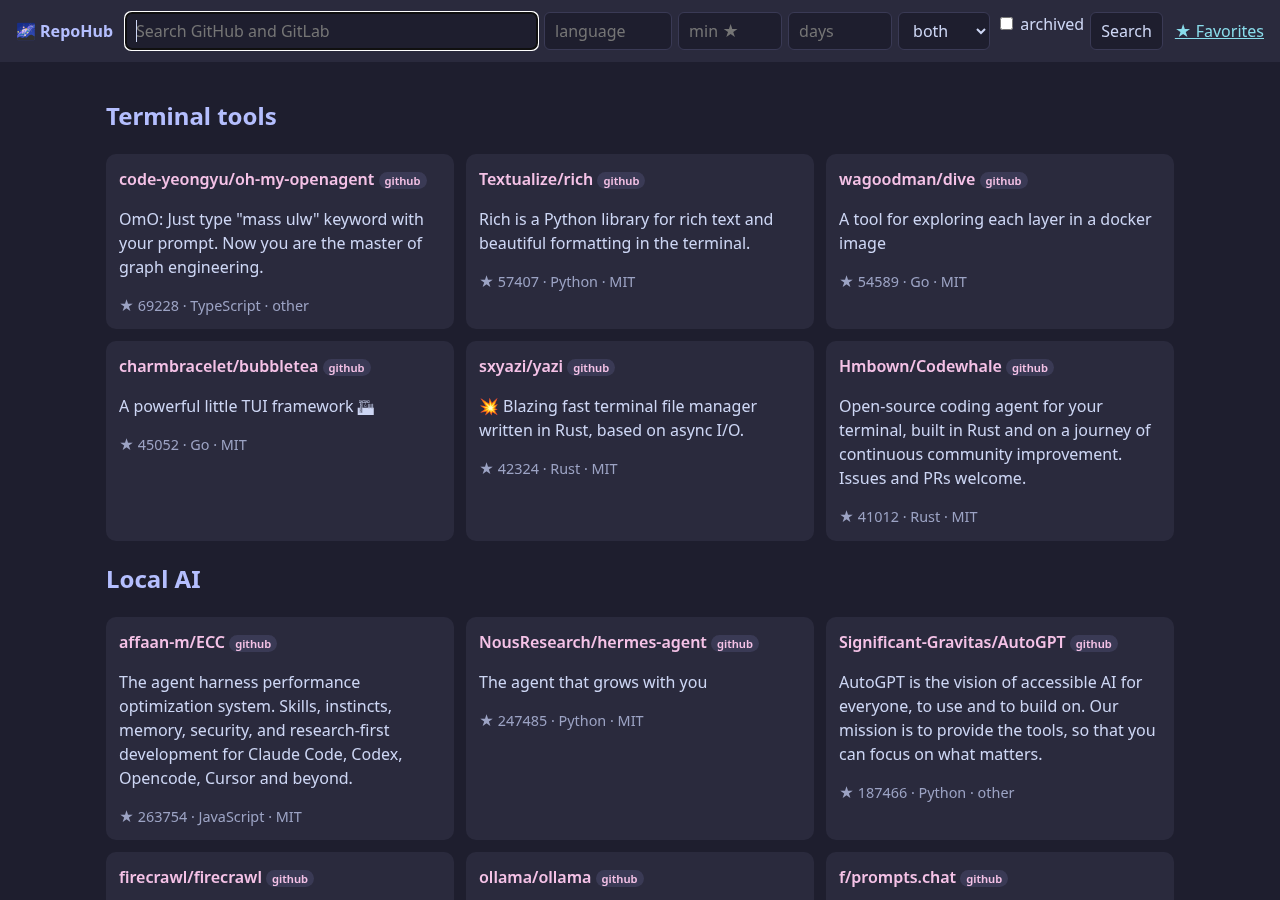
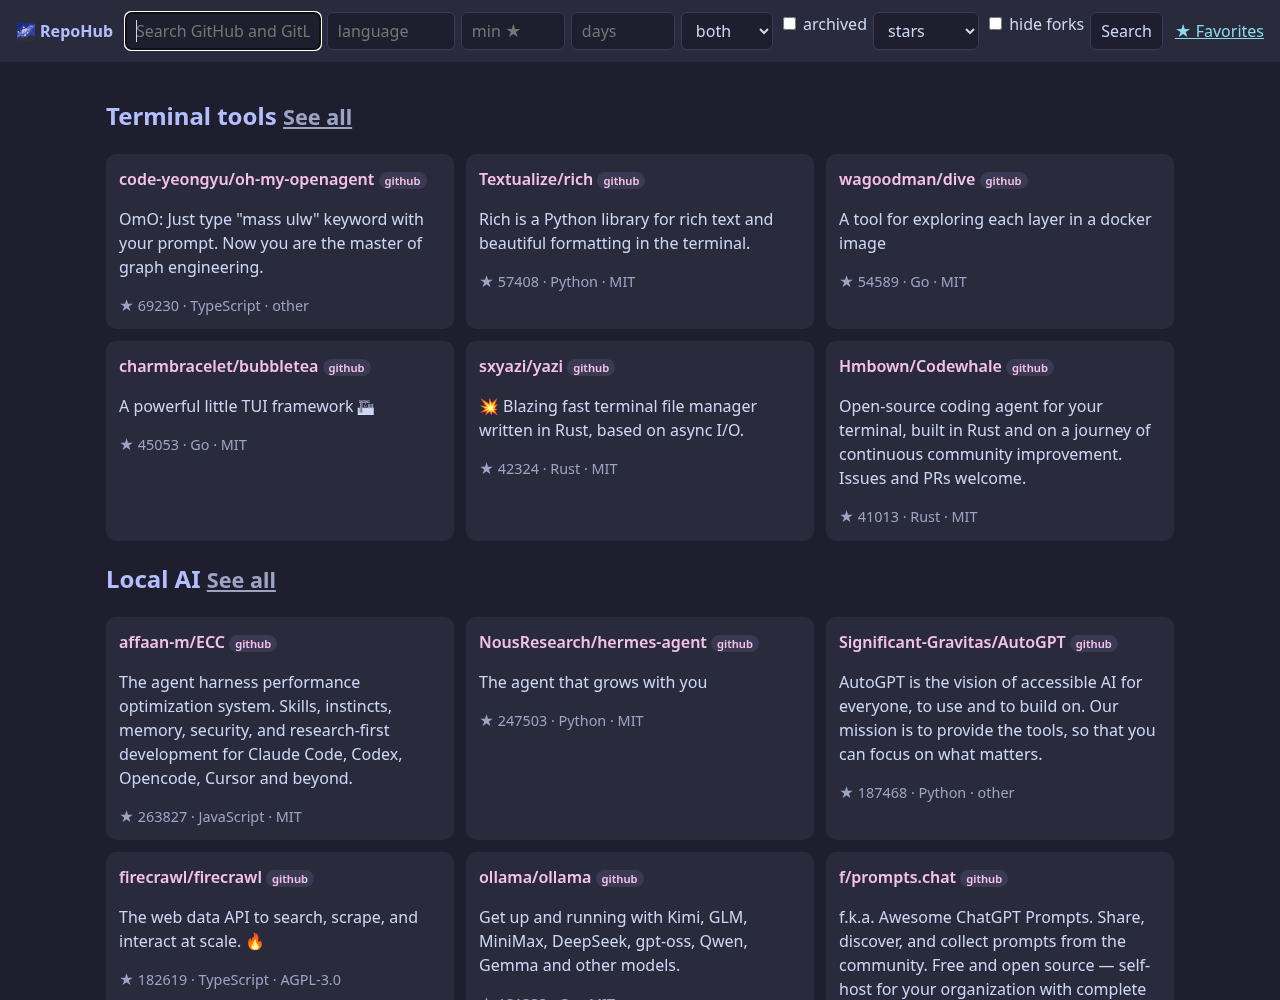
test: cover shelf index consistency, real catalog offline, old cache rows; docs

diff --git a/tests/test_phase1_consistency.py b/tests/test_phase1_consistency.py
@@ -1,0 +1,77 @@
+"""Cross-front-end consistency and offline checks that span several modules."""
+import hashlib
+import io
+import json
+import re
+from dataclasses import asdict
+
+from fastapi.testclient import TestClient
+
+import repohub.cli as cli
+from helpers import FakeProvider, make_hub, mk
+from repohub.core.browse import LoadedShelves, Shelf, ShelfEntry
+from repohub.core.hub import DETAIL_TTL, SEARCH_TTL
+from repohub.core.models import SearchFilters
+from repohub.tui.app import RepoHubApp
+from repohub.web.app import create_app
+
+
+def shelf_list():
+    cur = lambda n: Shelf(n, repos=(ShelfEntry("github", "o/r"),), as_of="2026-09-01")  # noqa: E731
+    return [Shelf("S0", topic="a"), cur("C1"), Shelf("S2", topic="b"), cur("C3"), Shelf("S4", query="q")]
+
+
+async def test_shelf_indexes_agree_in_web_tui_and_cli(tmp_path, monkeypatch):
+    shelves = shelf_list()
+    names = [s.name for s in shelves]
+    # web: home order and /shelves/{i} links
+    app = create_app(make_hub(FakeProvider("github")), tmp_path, session_token="t", shelves=shelves)
+    html = TestClient(app, base_url="http://localhost").get("/").text
+    web = re.findall(r"<h2>(.*?) <a class=\"dim\" href=\"/shelves/(\d+)\">", html)
+    assert [(n, int(i)) for n, i in web] == list(zip(names, range(5)))
+    # tui: row keys
+    from textual.widgets import DataTable
+    tui = RepoHubApp(make_hub(FakeProvider("github")), tmp_path, shelves=shelves)
+    async with tui.run_test() as pilot:
+        await pilot.pause()
+        assert [k.value for k in tui.query_one(DataTable).rows] == [f"shelf:{i}" for i in range(5)]
+    # cli
+    monkeypatch.setattr(cli, "load_all_shelves", lambda *a, **k: LoadedShelves(list(shelves), []))
+    out = io.StringIO()
+    assert cli.main(["shelves", "--json"], stdout=out, stderr=io.StringIO()) == 0
+    assert [(e["index"], e["name"]) for e in json.loads(out.getvalue())["shelves"]] == list(enumerate(names))
+
+
+def test_real_packaged_catalog_shelf_offline_via_cli(tmp_path, monkeypatch):
+    monkeypatch.setenv("XDG_CONFIG_HOME", str(tmp_path / "cfg"))
+    gh = FakeProvider("github")
+    out, err = io.StringIO(), io.StringIO()
+    code = cli.main(["shelf", "Catalog: Terminal & TUI", "--limit", "3", "--no-refresh", "--json"],
+                    hub_factory=lambda: make_hub(gh), stdout=out, stderr=err)
+    doc = json.loads(out.getvalue())
+    assert code == 0 and gh.calls == 0
+    assert doc["shelf"] == "Catalog: Terminal & TUI" and len(doc["repos"]) == 3
+    assert all(r["live"] is False and r["as_of"] == "2026-09-20" for r in doc["repos"])
+
+
+def _old_row(repo):
+    d = repo.to_dict()
+    d.pop("fork")
+    return d
+
+
+async def test_old_cache_rows_without_fork_key_still_load():
+    r = mk("github", "o/r", 7)
+    hub = make_hub(FakeProvider("github"))
+    # search
+    filters, query = SearchFilters(), "x"
+    digest = hashlib.sha256(json.dumps([query, asdict(filters)], sort_keys=True).encode()).hexdigest()
+    hub.cache.set(f"search:{digest}", {"repos": [_old_row(r)], "errors": {}}, SEARCH_TTL)
+    res = await hub.search(query, filters)
+    assert res.repos[0].slug == "o/r" and res.repos[0].fork is False
+    # repo summary
+    hub.cache.set("repo:github:o/r", _old_row(r), DETAIL_TTL)
+    assert (await hub.repo_summary("github", "O/R")).fork is False
+    # detail
+    hub.cache.set("detail:github:o/r", {"repo": _old_row(r), "readme": "x", "release": None}, DETAIL_TTL)
+    assert (await hub.detail("github", "o/r")).repo.fork is False

diff --git a/tests/test_queryparse.py b/tests/test_queryparse.py
@@ -114,12 +114,12 @@ def test_very_long_input_is_fast():
     raw = " ".join(["word"] * 20000)[:100_000]
     start = time.monotonic()
     p = parse_query(raw)
-    assert time.monotonic() - start < 1.0
+    assert time.monotonic() - start < 5.0
     assert len(p.text) > 90_000
     start = time.monotonic()
     parse_query("lang:" + "a" * 100_000)
     parse_query("stars:" + "9" * 100_000)
-    assert time.monotonic() - start < 1.0
+    assert time.monotonic() - start < 5.0
 
 
 def test_unicode_digits_and_underscores_rejected():
@@ -180,7 +180,7 @@ def test_problem_count_capped():
     raw = " ".join(["stars:x"] * 1000)
     start = time.monotonic()
     p = parse_query(raw)
-    assert time.monotonic() - start < 1.0
+    assert time.monotonic() - start < 5.0
     assert len(p.problems) == 11
     assert p.problems[-1] == "... and more problems ignored"
     assert p.text == ""

diff --git a/tests/test_catalog.py b/tests/test_catalog.py
@@ -98,5 +98,5 @@ def test_loading_is_fast_and_uses_explicit_personal_path(tmp_path, monkeypatch):
     monkeypatch.setattr("repohub.core.browse.personal_shelves_path", boom)
     t = time.perf_counter()
     result = load_all_shelves(personal_path=tmp_path / "none.yaml")
-    assert time.perf_counter() - t < 2.0
+    assert time.perf_counter() - t < 5.0
     assert result.problems == []

diff --git a/README.md b/README.md
@@ -32,7 +32,7 @@
 <p align="center">
   <img src="docs/assets/web-home.png" alt="RepoHub web app: shelves of popular repositories" width="92%">
   <br>
-  <sub>The web app's home page: browse shelves, or search both hosts at once. (Screenshot taken 2026-09-20 with live data.)</sub>
+  <sub>The web app's home page: browse shelves, or search both hosts at once. (Captured 2026-09-21 with live data.)</sub>
 </p>
 
 ---
@@ -84,6 +84,14 @@ Keyboard-first, with everything the web app does. Type a query and press Enter, 
   <img src="docs/assets/tui-search.svg" alt="Terminal app: search results for 'terminal ui'" width="92%">
 </p>
 
+Curated shelves page 25 entries at a time with `[` and `]`:
+
+<p align="center">
+  <img src="docs/assets/tui-catalog.svg" alt="Terminal app: a Catalog shelf in the terminal with the paging hint in the status line" width="92%">
+  <br>
+  <sub>A catalog shelf in the terminal app. Captured 2026-09-21 with live data.</sub>
+</p>
+
 Open a repository to read its README and release info. Press `f` to favorite it or `c` to clone it.
 
 <p align="center">
@@ -106,6 +114,12 @@ Search across both hosts with filters, then open any repo for a store-style page
 
 <p align="center">
   <img src="docs/assets/web-search.png" alt="Web app: search results for 'terminal ui'" width="92%">
+</p>
+
+<p align="center">
+  <img src="docs/assets/web-shelf.png" alt="Web app: a Catalog shelf page with the curator's notes and live stats" width="92%">
+  <br>
+  <sub>A catalog shelf page. Captured 2026-09-21 with live data (as were the screenshots above and below; <code>web-repo.png</code> was refreshed too).</sub>
 </p>
 
 <p align="center">
@@ -145,7 +159,7 @@ A shelf is a named group of repositories on the home page. There are two kinds:
 - **Search shelves** run a search (optional `topic`, `language`, `min_stars`, `days`). Six are packaged: Terminal tools, Local AI, Retro and emulation, Self-hosted, Creative coding and Networking.
 - **Curated shelves** list exact repositories. Eight packaged `Catalog: ...` shelves hold 171 curated repositories with the curator's one-line note for each, and stats snapshotted on 2026-09-20.
 
-Home-page tiles for curated shelves show the stored snapshots only (no API calls). Opening a shelf refreshes the entries you can see live: 12 per page in the web app, 25 per page in the terminal app (page with `[` and `]`). If refreshing an entry fails, its snapshot is kept and marked "as of" its snapshot date.
+Home-page tiles for curated shelves show the stored snapshots only (no API calls). Opening a shelf refreshes the entries you can see live: 12 per page in the web app, 25 per page in the terminal app (page with `[` and `]`). If refreshing an entry fails, its snapshot is kept. The web app marks such an entry "as of" the snapshot date and the CLI reports `"live": false` for it. The terminal app shows one shelf-level "as of" date in its status line and does not mark individual stale rows. After a host rate-limits a refresh, RepoHub stops refreshing that host's entries for at least 60 seconds (up to an hour, following the host's reset time) and shows their snapshots.
 
 ### Your own shelves
 
@@ -189,7 +203,7 @@ repohub shelf NAME_OR_INDEX [--limit N] [--no-refresh] [--json]
 repohub favorites [--json]
 ```
 
-`search` accepts the [search syntax](#-search-syntax) in its text; tokens in the text override the flags. `--limit` is 1 to 200 for `search` (default 20) and 1 to 50 for `shelf` (default 20). `shelf` takes an exact name (case-insensitive) or the index shown by `repohub shelves`, and shows the first page only. `--no-refresh` makes a curated shelf use its stored snapshots with no API calls. `favorites` and `shelves` do not use the network.
+`search` accepts the [search syntax](#-search-syntax) in its text; tokens in the text override the flags. `--limit` is accepted from 1 to 200 for `search` (default 20), but each host returns at most 30 results per request, so a search shows about 60 rows at most; for `shelf` it is 1 to 50 (default 20). `shelf` takes an exact name (case-insensitive) or the index shown by `repohub shelves`; an argument made only of digits is an index when it is a valid one, otherwise it is matched as a name (with duplicate names the first shelf wins). It shows the first page only. `--no-refresh` makes a curated shelf use its stored snapshots with no API calls. `favorites` and `shelves` do not use the network.
 
 ```bash
 repohub search "terminal ui lang:go stars:>500 nofork" --limit 10
@@ -208,7 +222,7 @@ repohub repo github:BurntSushi/ripgrep --json | jq -r '.release.assets[] | selec
 | `shelves` | `{"schema_version": 1, "shelves": [{"index", "name", "kind", "entries"}]}` (`kind` is `search` or `curated`; `entries` is 0 for search shelves) |
 | `repo` | `{"schema_version": 1, "repo": {...}, "release": {"tag", "published_at", "assets": [{"name", "size", "url", "arch"}]} or null, "readme": text or null}` (`readme` only with `--readme`; `arch` is `arm64`, `x86_64` or `unknown`) |
 
-**Exit codes.** `0` success; `1` error (host failure with no results, unknown shelf or repository, unexpected error); `2` usage error (including a malformed `HOST:OWNER/NAME`); `3` partial success (some results, but a host reported an error); `130` interrupted. Table output cells are sanitised and truncated to keep lines readable.
+**Exit codes.** `0` success; `1` error (a host failed and there were no results, an unknown shelf or repository, an unexpected error, or a curated shelf refresh that failed for every entry even though snapshot rows were printed); `2` usage error (including a malformed `HOST:OWNER/NAME`); `3` partial success (some results, but a host reported an error, or a curated shelf refreshed only some entries); `130` interrupted. Table output cells are sanitised and truncated to keep lines readable.
 
 ## 🧠 How it works
 
@@ -317,6 +331,9 @@ The design and the task-by-task implementation plan are in [`docs/plans/`](docs/
 - GitLab search results carry no language unless you filter by language, and its minimum-stars filter is applied client-side, so a page of results can shrink.
 - Recency filters drop repositories with an unknown push date.
 - Curated shelf refreshes use extra API requests (a bounded number per page, cached for one hour). Without a token GitHub allows only about 60 core requests per hour, so keep a token set for heavy browsing.
+- GitHub's own "updated" ordering differs slightly from the last-push date RepoHub re-sorts by, so `sort:updated` can reorder the fetched page.
+- A rate-limited host stops curated refreshes for a while (at least 60 seconds) and shows the snapshot instead.
+- Personal search shelves are validated: `language` and `topic` must use the same characters the search syntax allows (`topic` is lowercased), `query` is at most 200 characters on one line, and a `repos` key that is empty is an error.
 - GitLab cannot sort by forks or hide forks server-side, so those options only apply to the results that were fetched.
 - Remote images in READMEs can load in the web app (the CSP allows `img-src *`), which shows your IP address to those hosts.
 - The cache is never purged; expired entries are only overwritten.

diff --git a/docs/plans/2026-09-21-phase1-design.md b/docs/plans/2026-09-21-phase1-design.md
@@ -90,3 +90,12 @@ What differs from, or was added to, the design above, as found in the code:
 - **Terminal notifications are plain text.** Every `notify(...)` call in the terminal app passes `markup=False`.
 - **CLI output safety.** In `--json` mode, dangerous characters (C1 controls, bidirectional controls, line and paragraph separators) are written as `\uXXXX` escapes, and stdout carries only the JSON document. Table cells are sanitised and truncated (descriptions to 60 characters, slugs to 60, languages to 20), and error messages are capped at 300 characters.
 - **`--no-refresh`.** `repohub shelf` gained `--no-refresh`, which shows a curated shelf from its stored snapshots with no API calls.
+
+### Follow-up after the whole-phase review
+
+- **Rate-limit backoff.** `Hub` remembers per host when a `RateLimited` error was seen (`clock` is injectable). For at least 60 and at most 3600 seconds (following the host's reset time when it is known), `curated_page` makes no calls to that host: its entries keep their snapshots and the stored error message is reported. Queued entries re-check this after taking a concurrency slot; other hosts are unaffected.
+- **Personal shelf validation.** For search shelves, `language` and `topic` must match the same patterns as the query tokens (`LANG_RE`, `TOPIC_RE`, now public; `topic` is lowercased), `query` is cleaned, single-line and at most 200 characters (longer is an error), and a `repos` key that is empty or null is an error instead of becoming a search shelf.
+- **Checkbox parsing.** The web `hide_forks` and `archived` values `""`, `0`, `false`, `off` and `no` (any case) mean off; any other value means on, and the form shows the same state.
+- **Shared constants.** `HOSTS`, `MAX_STARS` and `MAX_DAYS` are defined once in `core/models.py` and imported by the parser, shelves, web app and CLI.
+- **CLI.** All parser problems (up to 10 plus the "and more" marker) are printed as `Ignored:` lines; a digits-only shelf argument is an index when valid, otherwise a name (first match wins for duplicates); `search --limit` help notes the 30-per-host request cap.
+- **Tests.** Added checks that shelf indexes agree across the web app, terminal app and CLI, that the real packaged catalog works offline through the CLI, that old cache rows without a `fork` key still load, and relaxed the wall-clock thresholds to 5 seconds.

diff --git a/SECURITY.md b/SECURITY.md
@@ -13,6 +13,9 @@ Helpful details: what you did, what you expected, what happened, the RepoHub ver
 - Script or markup injection through repository data in the web app or the terminal app.
 - Bypassing the session-token, Host-header or Content-Security-Policy protections of the web app.
 - Anything that makes `clone` run outside the chosen folder, contact a host other than `github.com` or `gitlab.com`, run install or build steps, or delete files it did not create.
+- The search-query parser (`lang:`, `stars:` and the other tokens) in the web app, the terminal app and the CLI: injection through echoed problem messages, and resource use on hostile input.
+- The personal shelves file (`shelves.yaml`) and the rendering of curated notes and snapshots: parsing, size limits, unsafe file types, and markup or control characters in text.
+- The CLI's JSON and text output: control and bidirectional characters, JSON escaping, and anything that could print secrets.
 - Leaking API tokens (logs, error pages, cache, outgoing requests to the wrong host).
 
 ## Design notes
